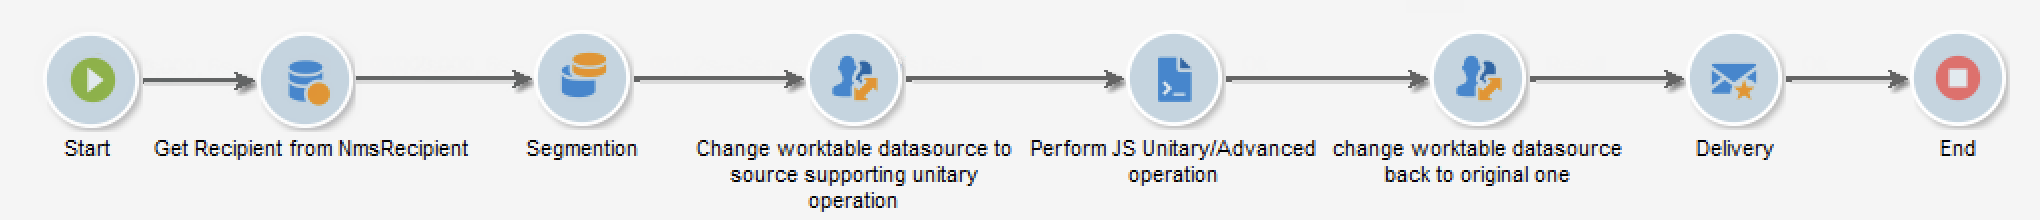
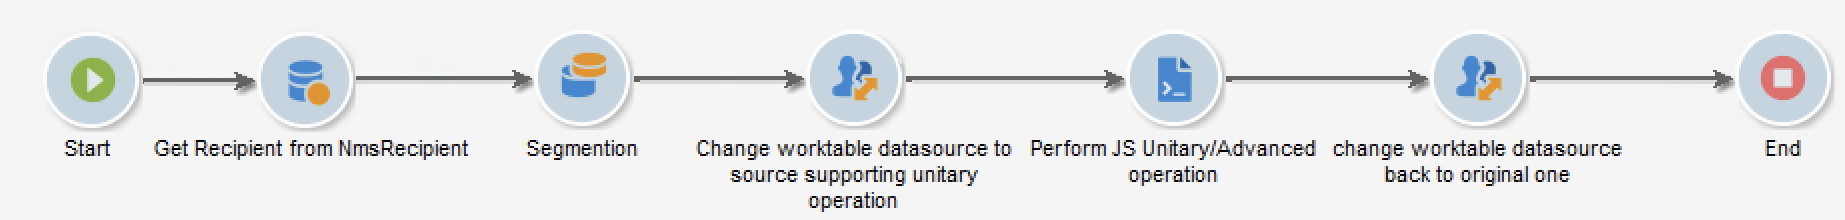
new activity in progress

diff --git a/help/v8/config/workflows.md b/help/v8/config/workflows.md
@@ -49,17 +49,17 @@ Workflow activities are grouped by category. The four activity categories are av
 * [Action activities](https://experienceleague.adobe.com/docs/campaign-classic/using/automating-with-workflows/action-activities/about-action-activities.html){target="_blank"}: Cross-channel deliveries, Javascript code, CRM activities, Update aggregate, and more
 * [Event activities](https://experienceleague.adobe.com/docs/campaign-classic/using/automating-with-workflows/action-activities/about-action-activities.html){target="_blank"}: File transfer, Web download and more
 
-### Change data source Activity {#change-data-source-activity}
+### Change data source activity {#change-data-source-activity}
 
-The **[!UICONTROL Change data source]** activity allows you to change the data source of a workflow **[!UICONTROL Working table]**. This provides more flexibility to manage data across different data sources such as FDA, FFDA and local database.
+In Campaign v8, the **[!UICONTROL Change data source]** activity allows you to change the data source of a workflow **[!UICONTROL Working table]**. This provides more flexibility to manage data across different data sources such as FDA, FFDA and local database.
 
-The **[!UICONTROL Working table]** (or temporary table) allows Adobe Campaign workflow to handle data and share data with the workflow activities.
-By default, the **[!UICONTROL Working table]** is created in the same database than the source of the data we query on.
+The **[!UICONTROL Working table]** allows Adobe Campaign workflow to handle data and share data with the workflow activities.
+By default, the **[!UICONTROL Working table]** is created in the same database as the source of the data we query on.
 
-For example, Profiles tables are stored on the Cloud database, when querying the Profiles table you will create a **[!UICONTROL Working table]** on the Cloud database as well.
+For example, when querying the **[!UICONTROL Profiles]** table, stored on the Cloud database, you will create a **[!UICONTROL Working table]** on the same Cloud database.
 To change this, you can add the **[!UICONTROL Change Data Source]** activity to choose a different data source for your **[!UICONTROL Working table]**.
 
-Note that when using the **[!UICONTROL Change Data Source]** activity, you will need to revert back to the FDA data source to continue the workflow execution.
+Note that when using the **[!UICONTROL Change Data Source]** activity, you will need to revert back to the Cloud database to continue the workflow execution.
 
 Learn how to use the **[!UICONTROL Change Data Source]** in this [end-to-end use case](#end-to-end-uc).
 
@@ -191,12 +191,20 @@ In this use case, learn how to use the **[!UICONTROL Change data source]** activ
 
 1. Create a workflow and add a **[!UICONTROL Start]** activity.
 
-1. Query your targeted recipients from the NmsRecipient table with a **[!UICONTROL Query]** activity. For more information on the Query Activity, refer to the [Query](https://experienceleague.adobe.com/docs/campaign-classic/using/automating-with-workflows/targeting-activities/query.html#creating-a-query) page in Campaign Classic V7 documentation.
+1. Query your targeted recipients from the NmsRecipient table with a **[!UICONTROL Query]** activity. 
 
-    A new working table is then created on Cloud database and this contains the result of my query.
+    For more information on the **[!UICONTROL Query]** activity, refer to the [Query](https://experienceleague.adobe.com/docs/campaign-classic/using/automating-with-workflows/targeting-activities/query.html#creating-a-query) page in Campaign Classic V7 documentation.
 
-1. Now I need to run a Javascript Activity that performs unitary operations on this working table.
+1. 
 
-1. Then I will first move the working table from Cloud Database to the local Postgres Database.
+1. From the **[!UICONTROL Targeting]** tab, add a **[!UICONTROL Change data source]** activity and double-click it to select **[!UICONTROL Default data source]**.
+    
+    The working table, which contains the result of your query, is then moved to the default PostgreSQL database.
 
-1. I am now able to run my script on top of the local Postgres database which is more efficient with unitary operations.
+1. From the **[!UICONTROL Actions]** tab, drag and drop a **[!UICONTROL JavaScript code]** activity to perform unitary operations on the working table.
+
+1. Add another **[!UICONTROL Change data source]** activity to revert back to the Cloud database. 
+    
+    Double-click your activity and select **[!UICONTROL Active FDA external account]** then the corresponding external account.
+
+1. Add an **[!UICONTROL End]** activity and start your workflow.

diff --git a/help/v8/start/capability-matrix.md b/help/v8/start/capability-matrix.md
@@ -76,6 +76,14 @@ Campaign users connect through their Adobe ID. The same Adobe ID is used to keep
 
  Note that Adobe Campaign reports are optimized and offer better scale capabilities than Campaign Classic v7. Existing limitations on Cubes do not apply.
 
+## Workflow {#workflow}
+
+Campaign v8 offers an additional targeting workflow activity: **[!UICONTROL Change data source]**.
+
+The **[!UICONTROL Change data source]** activity allows you to change the data source of a workflow **[!UICONTROL Working table]** to manage data across different data sources such as FDA, FFDA and local database.
+
+💡 Learn more on the **[!UICONTROL Change data source]** activity in [this page](../config/worfklows.md#change-data-source-activity).
+
 ## Unavailable features{#gs-unavailable-features}
 
 Please note that some capabilities are not available in this first version, such as:
